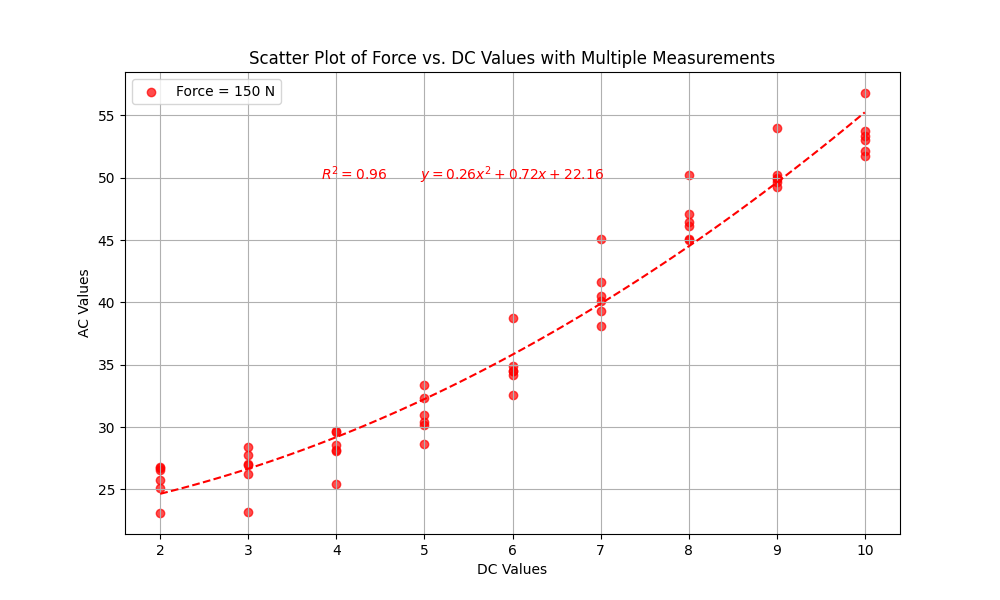
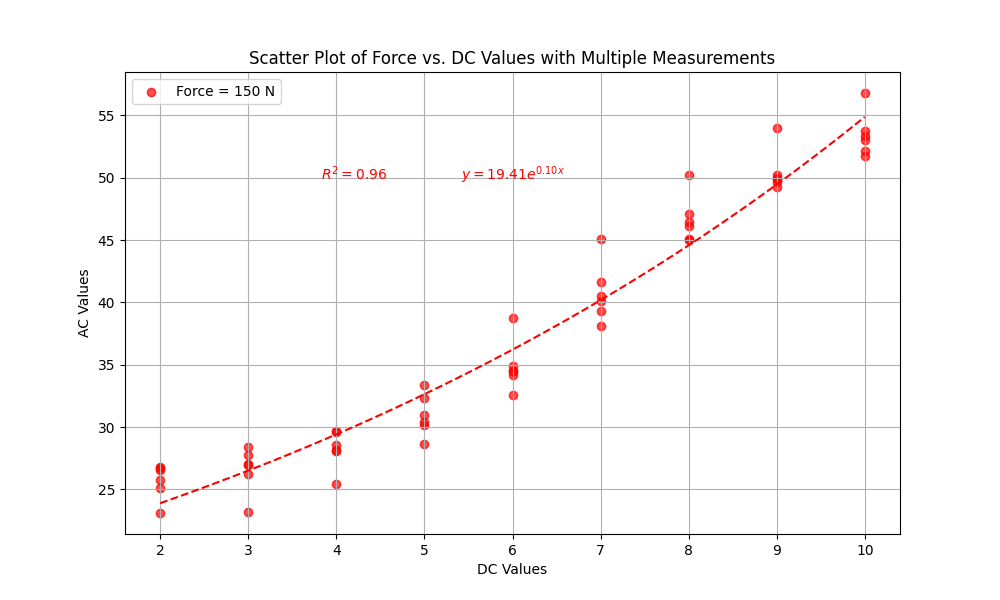
exponential trend

diff --git a/ProcessData.py b/ProcessData.py
@@ -1,5 +1,11 @@
-import matplotlib.pyplot as plt
 import numpy as np
+from scipy.optimize import curve_fit
+import matplotlib.pyplot as plt
+
+# Define the exponential function
+def exponential(x, a, b):
+    return a * np.exp(b * x)
+
 
 # Initialize lists to store AC data
 data_0AC = []
@@ -159,32 +165,33 @@ for idx, (force, ac_values_list) in enumerate(data.items()):
 
     # Calculate and plot the trendline
     if x_values and y_values:  # Check if there are data points
-        # Fit a polynomial of degree 2 (quadratic) to better capture the trend
-        z = np.polyfit(x_values, y_values, 2)  # Change to 2 for a quadratic fit
-        p = np.poly1d(z)  # Create a polynomial function
+    # Fit the exponential model to the data
+        params, _ = curve_fit(exponential, x_values, y_values)
 
         # Generate x values for the trendline
         x_fit = np.linspace(min(x_values), max(x_values), 100)
-        plt.plot(x_fit, p(x_fit), linestyle='--', color=color)  # Plot the trendline with the same color
+        y_fit = exponential(x_fit, *params)
 
-        # Calculate R^2
-        y_fit = p(x_values)
-        ss_res = np.sum((y_values - y_fit) ** 2)  # Residual sum of squares
+        # Plot the trendline
+        plt.plot(x_fit, y_fit, linestyle='--', color=color)
+
+
+        # Calculate R²
+        y_pred = exponential(np.array(x_values), *params)
+        ss_res = np.sum((y_values - y_pred) ** 2)  # Residual sum of squares
         ss_tot = np.sum((y_values - np.mean(y_values)) ** 2)  # Total sum of squares
         r_squared = 1 - (ss_res / ss_tot)
 
         # Determine the position to display R^2
         offset = -1.9 # Adjust the offset based on the index
         plt.text(4.2,55.5+idx*offset,f'$R^2 = {r_squared:.2f}$', color=color, fontsize=10, ha='center')
-
-         # Use z directly to get the coefficients for the polynomial equation
-        a, b, c = z  # a is the coefficient for x^2, b for x, and c for the constant term
-
+        
         # Create the equation string
-        equation = f'$y = {a:.2f}x^2 + {b:.2f}x + {c:.2f}$'
+        a, b = params  # a and b are the coefficients for the exponential fit
+        equation = f'$y = {a:.2f} e^{{{b:.2f} x}}$'
 
         # Display the equation on the plot
-        plt.text(6,55.5+idx*offset, equation, color=color, fontsize=10, ha='center')
+        plt.text(6, 55.5 + idx * offset, equation, color=color, fontsize=10, ha='center')
 
     # Adding labels and title
     plt.title('Scatter Plot of Force vs. DC Values with Multiple Measurements')
